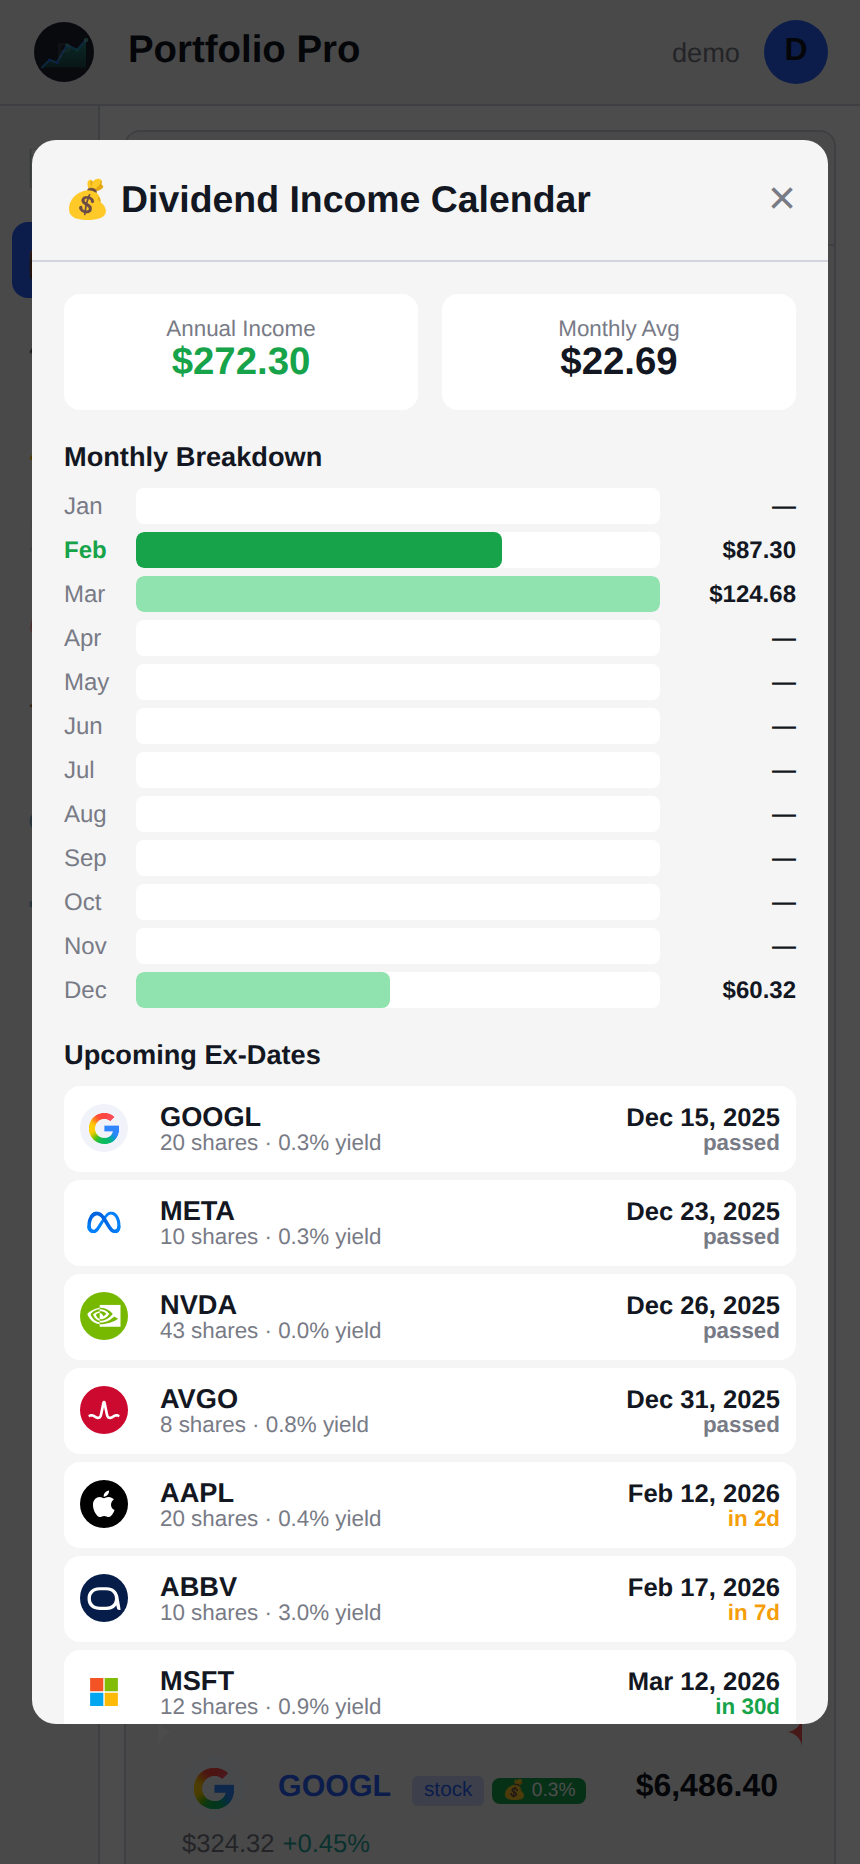
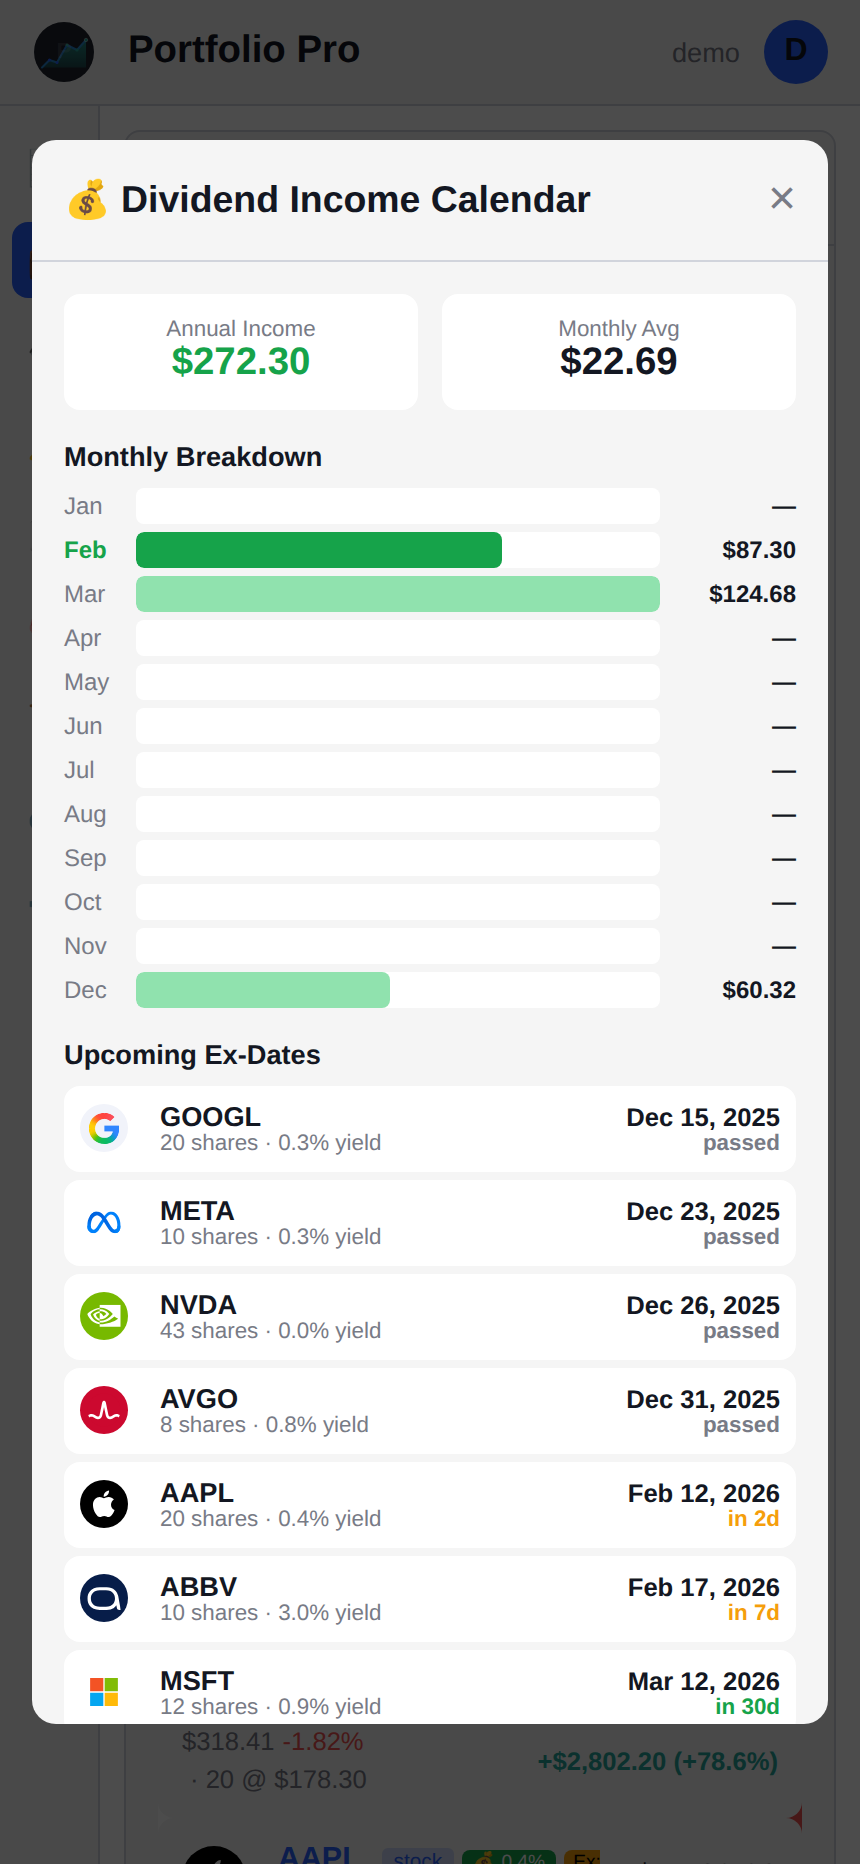
v0.25.0: Voice input, PDF export, modal fixes, AH badge improvements

Changed region(s): [[0.4535, 0.9335, 0.907, 1.0], [0.2116, 0.9335, 0.4535, 1.0], [0.514, 0.9335, 0.5442, 0.9646]]

diff --git a/public/js/oracle.js b/public/js/oracle.js
@@ -8,6 +8,63 @@ let aiActiveContexts = ['general'];
 let aiConversations = [];
 let aiOnboardingChecked = false;
 
+// ============ VOICE INPUT ============
+let voiceRecognition = null;
+let voiceIsListening = false;
+
+function initVoiceInput() {
+    const SpeechRecognition = window.SpeechRecognition || window.webkitSpeechRecognition;
+    const btn = document.getElementById('aiVoiceBtn');
+    if (!SpeechRecognition || !btn) {
+        if (btn) btn.style.display = 'none';
+        return;
+    }
+    btn.style.display = 'flex';
+    voiceRecognition = new SpeechRecognition();
+    voiceRecognition.continuous = false;
+    voiceRecognition.interimResults = true;
+    voiceRecognition.lang = 'en-US';
+
+    voiceRecognition.onresult = (event) => {
+        const input = document.getElementById('aiInput');
+        let transcript = '';
+        for (let i = 0; i < event.results.length; i++) {
+            transcript += event.results[i][0].transcript;
+        }
+        if (input) {
+            input.value = transcript;
+            aiInputAutoResize(input);
+        }
+    };
+    voiceRecognition.onend = () => stopVoiceVisual();
+    voiceRecognition.onerror = (e) => {
+        console.warn('Voice input error:', e.error);
+        stopVoiceVisual();
+        if (e.error === 'not-allowed') {
+            if (typeof showToast === 'function') showToast('Microphone access denied', 'error');
+        }
+    };
+}
+
+function toggleVoiceInput() {
+    if (!voiceRecognition) return;
+    if (voiceIsListening) {
+        voiceRecognition.stop();
+        stopVoiceVisual();
+    } else {
+        voiceRecognition.start();
+        voiceIsListening = true;
+        const btn = document.getElementById('aiVoiceBtn');
+        if (btn) btn.classList.add('voice-listening');
+    }
+}
+
+function stopVoiceVisual() {
+    voiceIsListening = false;
+    const btn = document.getElementById('aiVoiceBtn');
+    if (btn) btn.classList.remove('voice-listening');
+}
+
 // Check if user needs onboarding (no positions in any portfolio)
 async function checkOnboardingNeeded() {
     try {
@@ -62,6 +119,7 @@ function updateWelcomeForOnboarding(needsOnboarding) {
 
 // Initialize AI when page is shown
 async function initAi() {
+    initVoiceInput();
     try {
         aiProviders = await api('/ai/providers');
         updateAiProviderBadge();
@@ -433,6 +491,14 @@ function createMessageActions(rawMarkdown) {
         } catch { showToast('Failed to copy', 'error'); }
     };
     actions.appendChild(copyBtn);
+
+    {
+        const pdfBtn = document.createElement('button');
+        pdfBtn.className = 'ai-message-action-btn';
+        pdfBtn.innerHTML = '📄 PDF';
+        pdfBtn.onclick = () => exportAiResponseAsPdf(rawMarkdown);
+        actions.appendChild(pdfBtn);
+    }
 
     {
         const shareBtn = document.createElement('button');
@@ -1523,6 +1589,106 @@ async function loadAiConversation(convId) {
     } catch (e) {
         showToast('Failed to load conversation: ' + e.message, 'error');
     }
+}
+
+// ─── Export AI Response as PDF ─────────────────────────
+function exportAiResponseAsPdf(markdown) {
+    const html = renderAiMarkdown(markdown);
+    const now = new Date();
+    const dateStr = now.toLocaleDateString(undefined, { year: 'numeric', month: 'long', day: 'numeric', hour: '2-digit', minute: '2-digit' });
+
+    const printWindow = window.open('', '_blank');
+    if (!printWindow) {
+        showToast('Pop-up blocked — please allow pop-ups for this site', 'error');
+        return;
+    }
+
+    printWindow.document.write(`<!DOCTYPE html>
+<html><head><meta charset="utf-8"><title>Portfolio Pro — AI Analysis</title>
+<style>
+  * { margin: 0; padding: 0; box-sizing: border-box; }
+  body { font-family: -apple-system, BlinkMacSystemFont, 'Segoe UI', Roboto, sans-serif; color: #1a1a1a; background: #fff; padding: 40px; max-width: 800px; margin: 0 auto; line-height: 1.6; }
+  .pdf-header { border-bottom: 2px solid #2962ff; padding-bottom: 12px; margin-bottom: 24px; display: flex; justify-content: space-between; align-items: baseline; }
+  .pdf-header h1 { font-size: 20px; color: #2962ff; }
+  .pdf-header .date { font-size: 12px; color: #666; }
+  .pdf-content h1 { font-size: 18px; margin: 16px 0 8px; color: #131722; }
+  .pdf-content h2 { font-size: 16px; margin: 14px 0 6px; color: #131722; }
+  .pdf-content h3 { font-size: 14px; margin: 12px 0 4px; color: #131722; }
+  .pdf-content p, .pdf-content li { font-size: 13px; margin-bottom: 4px; }
+  .pdf-content ul, .pdf-content ol { padding-left: 20px; margin-bottom: 8px; }
+  .pdf-content table { width: 100%; border-collapse: collapse; margin: 12px 0; font-size: 12px; }
+  .pdf-content th, .pdf-content td { border: 1px solid #ccc; padding: 6px 10px; text-align: left; }
+  .pdf-content th { background: #f0f0f0; font-weight: 600; }
+  .pdf-content pre { background: #f5f5f5; border: 1px solid #ddd; border-radius: 4px; padding: 10px; overflow-x: auto; font-size: 12px; margin: 8px 0; }
+  .pdf-content code { font-family: 'SF Mono', Consolas, monospace; font-size: 12px; background: #f0f0f0; padding: 1px 4px; border-radius: 3px; }
+  .pdf-content pre code { background: none; padding: 0; }
+  .pdf-content strong { font-weight: 600; }
+  .pdf-footer { margin-top: 32px; padding-top: 12px; border-top: 1px solid #ddd; font-size: 11px; color: #999; text-align: center; }
+  @media print {
+    body { padding: 20px; }
+    @page { margin: 1.5cm; }
+  }
+</style></head><body>
+  <div class="pdf-header">
+    <h1>🧠 Portfolio Pro — AI Analysis</h1>
+    <span class="date">${dateStr}</span>
+  </div>
+  <div class="pdf-content">${html}</div>
+  <div class="pdf-footer">Generated by Portfolio Pro Oracle · ${dateStr}</div>
+  <script>window.onload=function(){window.print();}<\/script>
+</body></html>`);
+    printWindow.document.close();
+}
+
+function exportFullConversationAsPdf() {
+    const container = document.getElementById('aiMessages');
+    if (!container) return;
+    const messages = container.querySelectorAll('.ai-message');
+    if (!messages.length) { showToast('No conversation to export', 'info'); return; }
+
+    let contentHtml = '';
+    messages.forEach(msg => {
+        const role = msg.dataset.role;
+        const bubble = msg.querySelector('.ai-message-bubble');
+        if (!bubble) return;
+        // Clone and strip action buttons
+        const clone = bubble.cloneNode(true);
+        clone.querySelectorAll('.ai-message-actions, .ai-action-container').forEach(el => el.remove());
+        const label = role === 'user' ? '👤 You' : '🧠 Oracle';
+        contentHtml += `<div style="margin-bottom:16px;"><strong style="color:${role === 'user' ? '#2962ff' : '#26a69a'}">${label}</strong><div style="margin-top:4px;">${clone.innerHTML}</div></div>`;
+    });
+
+    const now = new Date();
+    const dateStr = now.toLocaleDateString(undefined, { year: 'numeric', month: 'long', day: 'numeric', hour: '2-digit', minute: '2-digit' });
+
+    const printWindow = window.open('', '_blank');
+    if (!printWindow) { showToast('Pop-up blocked — please allow pop-ups', 'error'); return; }
+
+    printWindow.document.write(`<!DOCTYPE html>
+<html><head><meta charset="utf-8"><title>Portfolio Pro — Conversation Export</title>
+<style>
+  * { margin: 0; padding: 0; box-sizing: border-box; }
+  body { font-family: -apple-system, BlinkMacSystemFont, 'Segoe UI', Roboto, sans-serif; color: #1a1a1a; background: #fff; padding: 40px; max-width: 800px; margin: 0 auto; line-height: 1.6; }
+  .pdf-header { border-bottom: 2px solid #2962ff; padding-bottom: 12px; margin-bottom: 24px; display: flex; justify-content: space-between; align-items: baseline; }
+  .pdf-header h1 { font-size: 20px; color: #2962ff; }
+  .pdf-header .date { font-size: 12px; color: #666; }
+  table { width: 100%; border-collapse: collapse; margin: 12px 0; font-size: 12px; }
+  th, td { border: 1px solid #ccc; padding: 6px 10px; text-align: left; }
+  th { background: #f0f0f0; font-weight: 600; }
+  pre { background: #f5f5f5; border: 1px solid #ddd; border-radius: 4px; padding: 10px; overflow-x: auto; font-size: 12px; margin: 8px 0; }
+  code { font-family: 'SF Mono', Consolas, monospace; font-size: 12px; }
+  .pdf-footer { margin-top: 32px; padding-top: 12px; border-top: 1px solid #ddd; font-size: 11px; color: #999; text-align: center; }
+  @media print { body { padding: 20px; } @page { margin: 1.5cm; } }
+</style></head><body>
+  <div class="pdf-header">
+    <h1>🧠 Portfolio Pro — Conversation</h1>
+    <span class="date">${dateStr}</span>
+  </div>
+  ${contentHtml}
+  <div class="pdf-footer">Generated by Portfolio Pro Oracle · ${dateStr}</div>
+  <script>window.onload=function(){window.print();}<\/script>
+</body></html>`);
+    printWindow.document.close();
 }
 
 async function deleteAiConversation(convId) {

diff --git a/public/css/styles.css b/public/css/styles.css
@@ -1778,6 +1778,34 @@
             cursor: not-allowed;
         }
 
+        /* Voice input button */
+        .ai-voice-btn {
+            width: 40px;
+            height: 40px;
+            border-radius: 50%;
+            display: flex;
+            align-items: center;
+            justify-content: center;
+            cursor: pointer;
+            background: var(--bg-tertiary);
+            color: white;
+            border: none;
+            font-size: 1.1rem;
+            transition: all 0.2s;
+            flex-shrink: 0;
+        }
+        .ai-voice-btn:hover {
+            filter: brightness(1.15);
+        }
+        .ai-voice-btn.voice-listening {
+            background: var(--accent-red, #e74c3c);
+            animation: voice-pulse 1.2s ease-in-out infinite;
+        }
+        @keyframes voice-pulse {
+            0%, 100% { transform: scale(1); opacity: 1; }
+            50% { transform: scale(1.15); opacity: 0.8; }
+        }
+
         /* Settings panel */
         .ai-panel-overlay {
             position: absolute;
@@ -2125,25 +2153,25 @@
     display: inline-flex;
     align-items: center;
     gap: 4px;
-    font-size: 0.72rem;
-    color: var(--text-secondary);
+    font-size: 0.8rem;
+    color: var(--text-primary);
     margin-left: 6px;
 }
 .ext-badge-pm, .ext-badge-ah {
     display: inline-block;
-    padding: 1px 4px;
+    padding: 2px 5px;
     border-radius: 3px;
-    font-size: 0.6rem;
+    font-size: 0.7rem;
     font-weight: 700;
     letter-spacing: 0.5px;
 }
 .ext-badge-pm {
-    background: rgba(59, 130, 246, 0.15);
-    color: #60a5fa;
+    background: rgba(59, 130, 246, 0.3);
+    color: #93bbfd;
 }
 .ext-badge-ah {
-    background: rgba(147, 51, 234, 0.15);
-    color: #a78bfa;
+    background: rgba(147, 51, 234, 0.3);
+    color: #c4b5fd;
 }
 .ext-hours-block {
     display: block;

diff --git a/public/index.html b/public/index.html
@@ -330,6 +330,7 @@
                             </div>
                         </div>
                         <div class="ai-header-right">
+                            <button class="ai-header-btn" onclick="exportFullConversationAsPdf()" title="Export as PDF">📄</button>
                             <button class="ai-header-btn" onclick="openAiSettings()" title="AI Settings">⚙</button>
                             <button class="ai-header-btn" onclick="openAiConversations()" title="Conversations">📋</button>
                             <button class="ai-header-btn" onclick="newAiChat()" title="New Chat">+</button>
@@ -372,6 +373,9 @@
                                 oninput="aiInputAutoResize(this); aiTickerAutocomplete(this)"></textarea>
                             <div class="autocomplete-dropdown hidden" id="aiTickerDropdown" style="bottom:100%;top:auto;margin-bottom:4px;max-height:200px;"></div>
                         </div>
+                        <button class="ai-voice-btn" id="aiVoiceBtn" onclick="toggleVoiceInput()" title="Voice input" style="display:none;">
+                            <span>🎤</span>
+                        </button>
                         <button class="ai-send-btn" id="aiSendBtn" onclick="sendAiChatMessage()" title="Send">
                             <span>📤</span>
                         </button>

diff --git a/public/js/app.js b/public/js/app.js
@@ -56,6 +56,10 @@ function closeModal(id) {
 }
 
 function showModal(id) {
+    // Close other modals to prevent overlap
+    document.querySelectorAll('.modal-overlay.show').forEach(m => {
+        if (m.id !== id) m.classList.remove('show');
+    });
     document.getElementById(id).classList.add('show');
 }
 

diff --git a/README.md b/README.md
@@ -10,7 +10,7 @@
 </p>
 
 <p align="center">
-  <img src="https://img.shields.io/badge/version-0.24.0-blue" alt="Version">
+  <img src="https://img.shields.io/badge/version-0.25.0-blue" alt="Version">
   <img src="https://github.com/kiliansitel/portfolio-tracker-pro/actions/workflows/ci.yml/badge.svg" alt="Tests">
   <img src="https://img.shields.io/badge/license-MIT-green" alt="License">
   <img src="https://img.shields.io/badge/docker-multi--arch-2496ED?logo=docker&logoColor=white" alt="Docker">
@@ -36,6 +36,8 @@ Open **http://localhost:8080** → create an account → start tracking.
 ## Features
 
 - 🧠 **Oracle AI Assistant** — Chat with your portfolio. Build a portfolio from scratch with guided onboarding. Multi-provider support with streaming responses, context injection, and conversation history
+- 🎤 **Voice Input for Oracle AI** — Speak your questions using Web Speech API. Mic button with pulsing animation while listening
+- 📄 **Export AI Conversations as PDF** — Per-message and full conversation export with clean print-friendly layout and branding
 - 🤖 **6 AI Providers** — OpenAI, Anthropic, Google, Ollama (with model auto-detection), OpenRouter, and any OpenAI-compatible endpoint
 - 🦙 **Ollama Integration** — Auto-detects available models from any Ollama server (custom ports supported). Configurable context window (`num_ctx`) per model
 - 📊 **Interactive Charts** — TradingView-powered area/candlestick charts with MA overlays, allocation donut, performance tracking
@@ -127,6 +129,7 @@ See **[VERSIONS.md](VERSIONS.md)** for full changelog.
 
 | Version | Highlights |
 |---------|-----------|
+| **v0.25.0** | Voice input for Oracle AI, PDF export for AI insights, modal fixes, AH badge improvements |
 | **v0.24.0** | After-hours/pre-market pricing, dividend tracking & income calendar, sector/geo exposure |
 | **v0.23.0** | Native multi-currency support, alerts API auth fix, full position API responses |
 | **v0.22.0** | Frontend modularization (14 files) + validation fix (#9) |
@@ -169,6 +172,8 @@ See **[VERSIONS.md](VERSIONS.md)** for full changelog.
 - [x] ~~Global market search (EU, Asia, all exchanges via Yahoo Finance)~~
 - [x] ~~Multi-currency support (native currency storage + live FX rates)~~
 - [x] ~~After-hours / pre-market pricing~~
+- [x] ~~Voice input for Oracle AI (Web Speech API)~~
+- [x] ~~Export/share AI insights as PDF~~
 - [ ] Live broker API sync (Keytrade, IBKR)
 - [x] ~~Dividend tracking & income calendar~~
 - [ ] AI news digest & scheduled reports

diff --git a/docs/MANUAL.md b/docs/MANUAL.md
@@ -4,7 +4,7 @@
   <img src="../logo.svg" alt="Portfolio Tracker Pro" width="96" height="96">
 </p>
 
-> **Version:** 0.24.0 · **License:** MIT · **Self-hosted** — your data stays on your machine.
+> **Version:** 0.25.0 · **License:** MIT · **Self-hosted** — your data stays on your machine.
 
 ---
 
@@ -898,8 +898,9 @@ The AI chat is a full conversational interface:
 
 1. Navigate to the **AI** page (🧠 tab)
 2. Type your question in the input box
-3. Press **Send** or hit Enter
+3. Press **Send** or hit Enter — or click the 🎤 **microphone button** next to the input field to speak your question. The button pulses red while listening. Speech is transcribed to text for you to review before sending.
 4. Responses stream in real-time via SSE with full markdown rendering
+5. Click the 📄 button on any AI response to export it as a PDF, or use the 📄 button in the header to export the full conversation.
 
 **Tips:**
 - Ask about your portfolio: *"How diversified am I?"*
@@ -1323,7 +1324,7 @@ The response is a Server-Sent Events (SSE) stream. Each event contains a `data` 
 **Info response:**
 ```json
 {
-  "version": "0.24.0",
+  "version": "0.25.0",
   "env": "production",
   "name": "Portfolio Pro"
 }

diff --git a/VERSIONS.md b/VERSIONS.md
@@ -1,4 +1,16 @@
 # Portfolio Tracker Pro — Version History
+## v0.25.0 (2026-02-10)
+### New Features
+- **Voice input for Oracle AI**: Microphone button (🎤) next to chat input — speak your questions using Web Speech API. Pulsing red animation while listening, auto-hides on unsupported browsers.
+- **Export AI insights as PDF**: Per-message 📄 button and header export button. Clean print-friendly layout with Portfolio Pro branding and date.
+
+### Improvements
+- AH/PM extended hours badges: improved visibility with larger font, higher contrast, and bolder colors
+- Modal management: opening a new modal now properly closes any existing open modal (fixes dividend calendar overlapping add position)
+
+### Bug Fixes
+- Fixed modal z-index overlap between dividend calendar and add position form
+
 ## v0.24.0 (2026-02-10)
 ### New Features
 - **After-hours / Pre-market pricing**: PM (blue) and AH (purple) badges show extended hours prices on position cards, watchlist items, and dashboard markets grid
